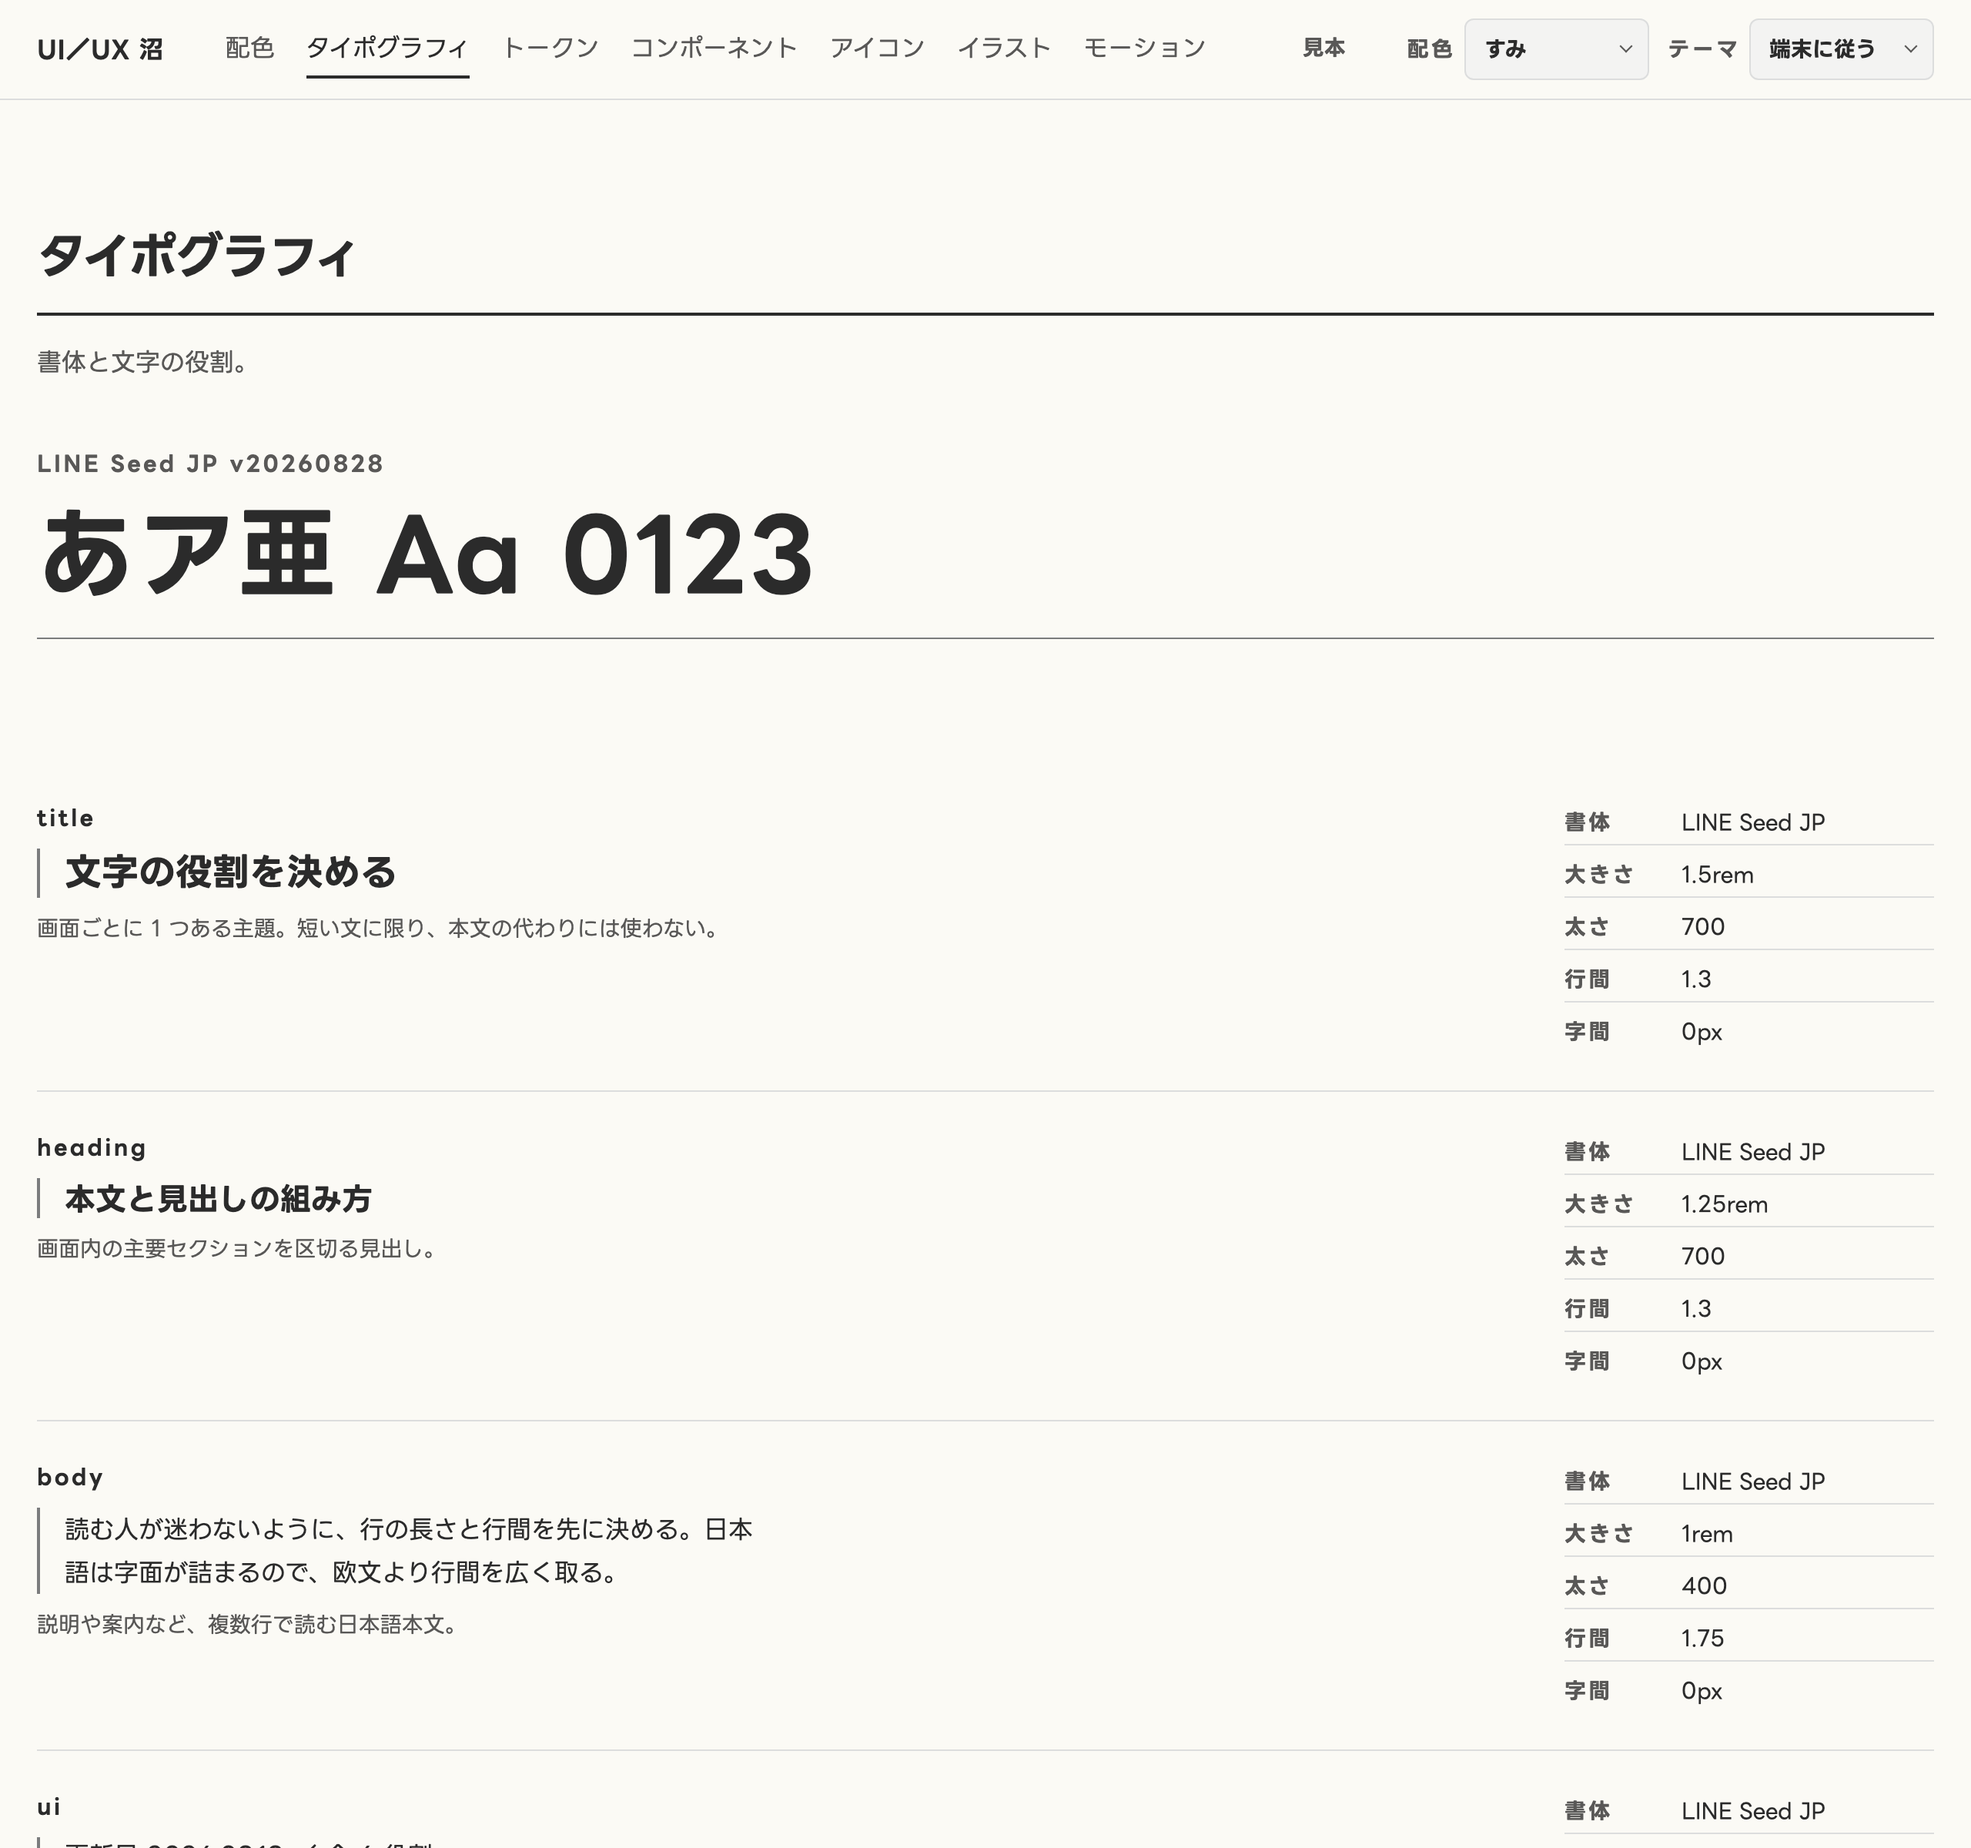
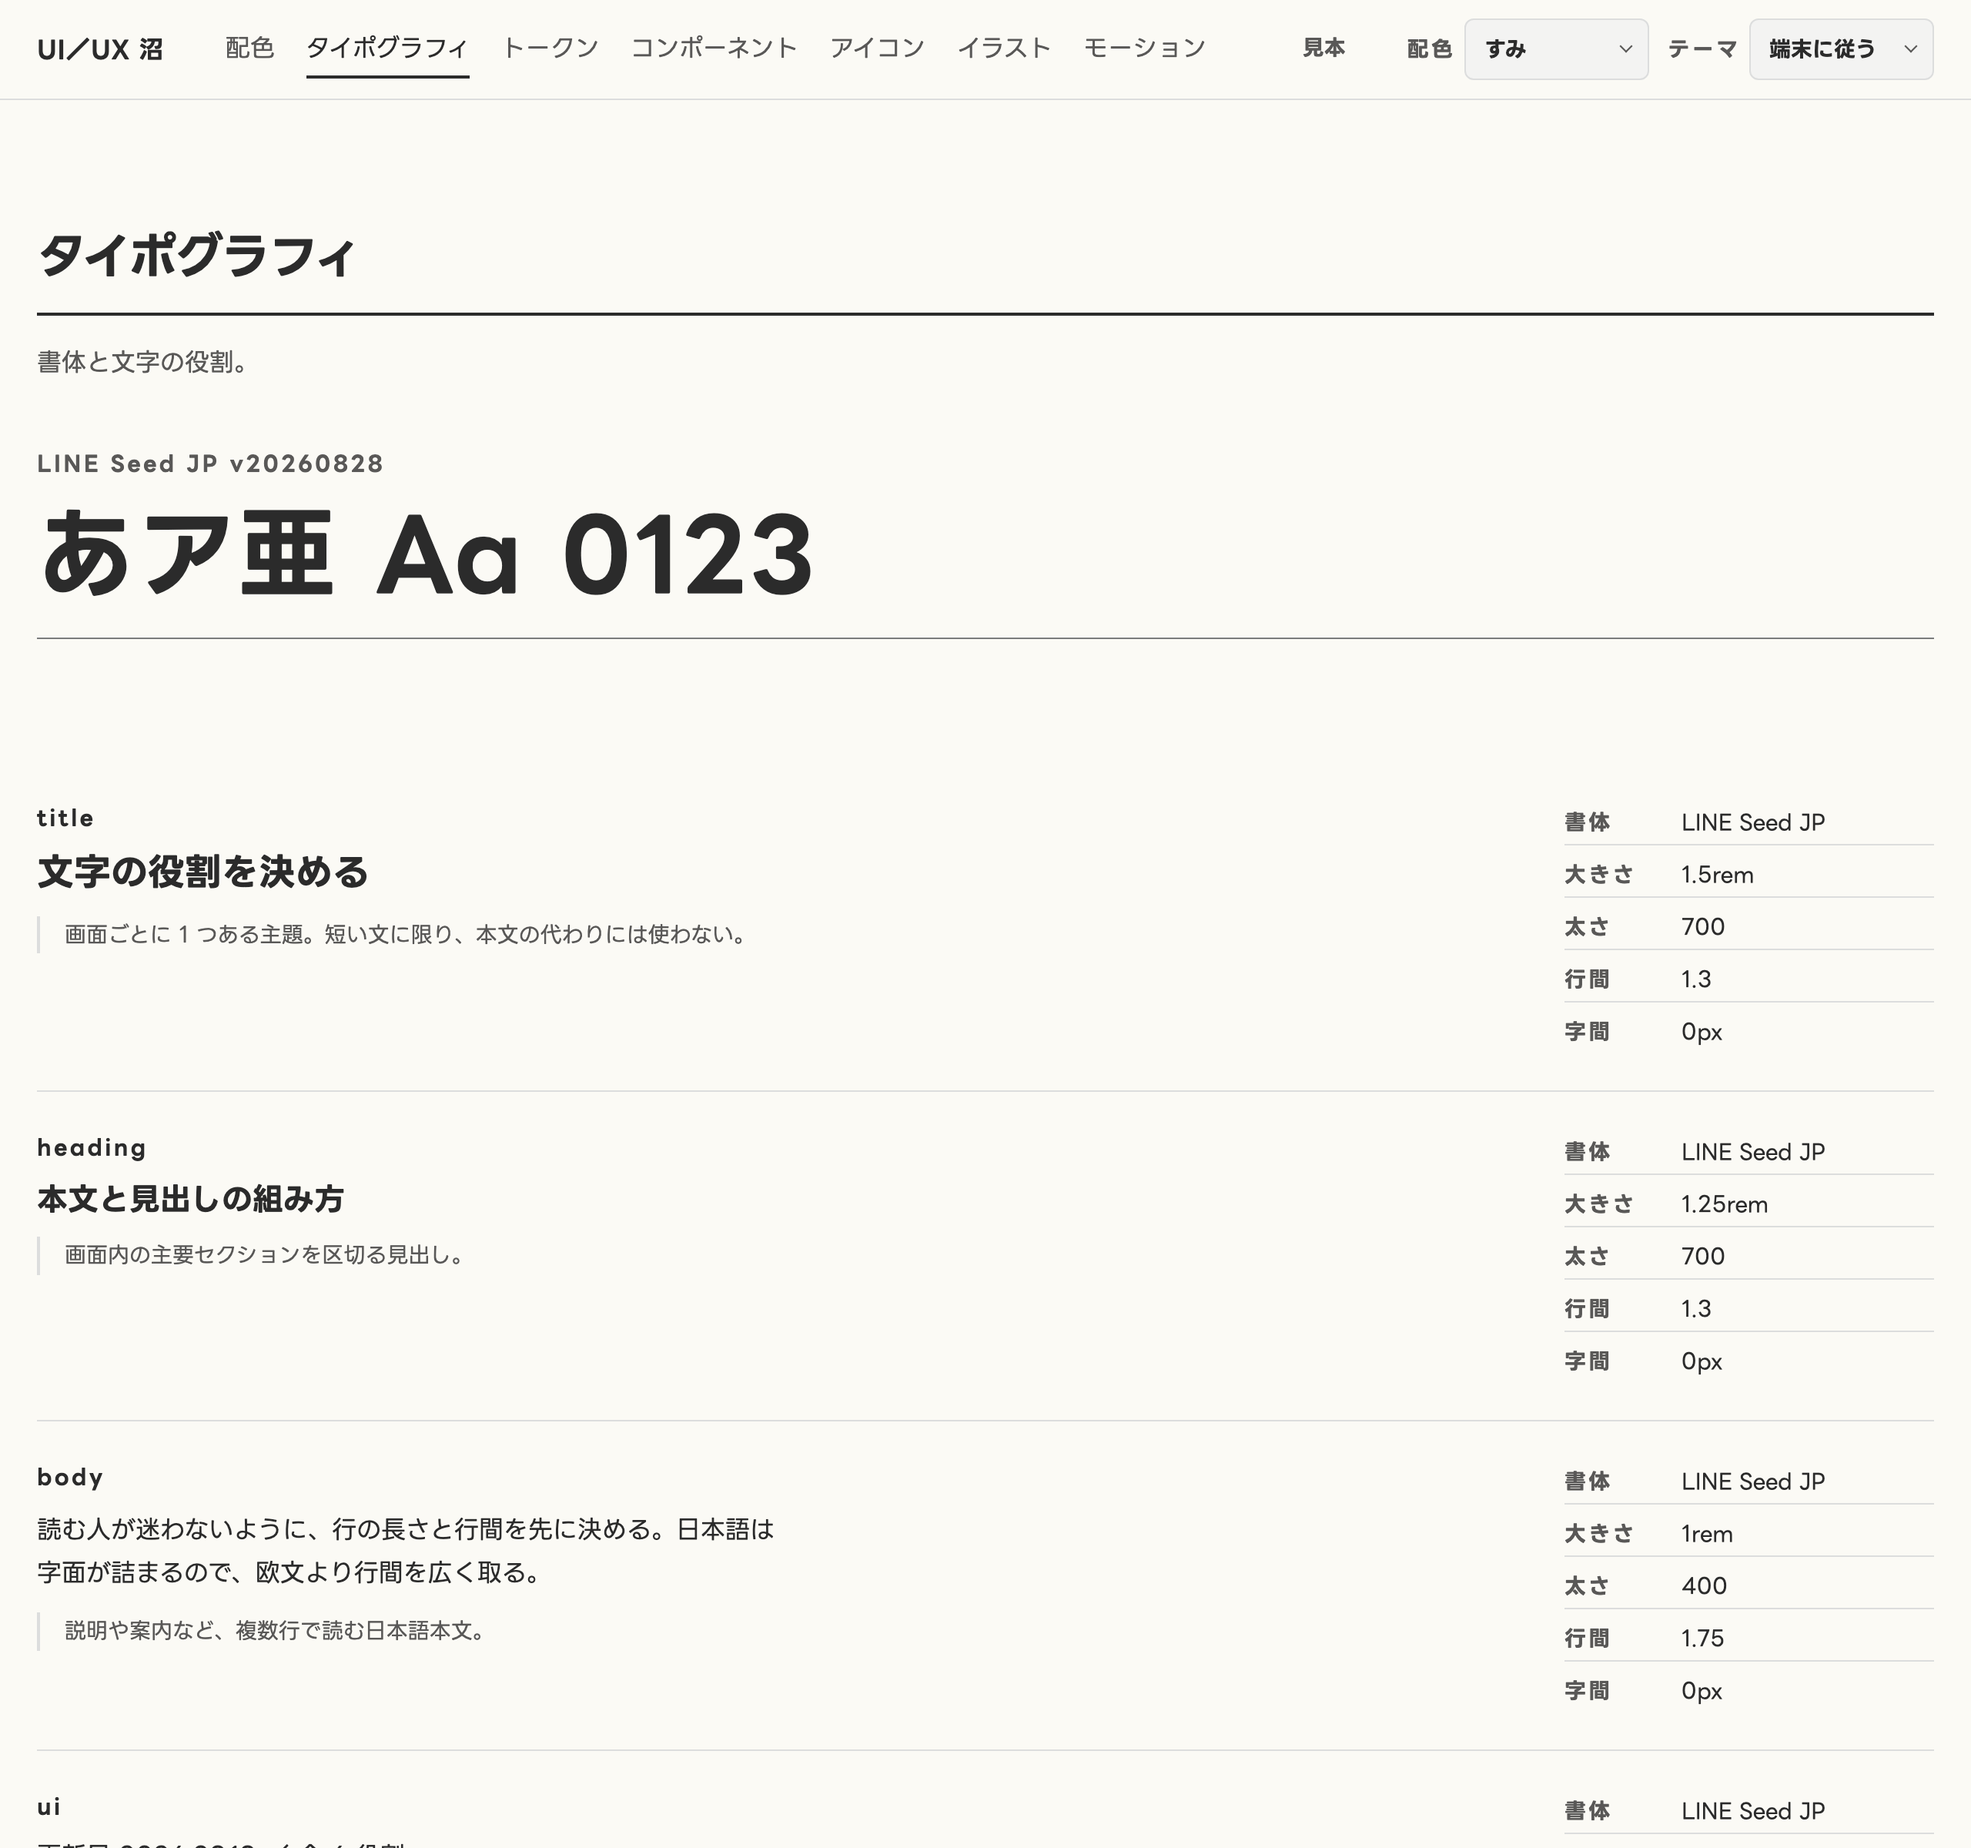
fix: 罫を見本ではなく説明の側へ移す 🐛
印は注釈の側に付ける（利用者の判断、2026-09-20）。
見本の側に罫と余白を足すと、token を当てた面が装飾を持ち、素のまま見られない。
説明を字下げして罫を引き、見本は行頭から素のまま組む。

Changed region(s): [[0.0, 0.8125, 0.4062, 0.9062], [0.0, 0.4375, 0.375, 0.5312], [0.0, 0.625, 0.2188, 0.6875]]

diff --git a/experiments/catalog-editorial/variants/topic-first/variant.css b/experiments/catalog-editorial/variants/topic-first/variant.css
@@ -1524,16 +1524,12 @@
   }
 }
 
-/* 見本には縦の罫を引く。
-   caption は 0.875rem の並文字なので、罫がないと下の説明と見分けが付かなかった。
-   語で「見本」と断らずに済むよう、位置と罫だけで役割を示す。
+/* 見本は素のまま置く。token を当てた面なので、罫や余白を足すと見本自体が装飾を持つ。
    行の長さは本文の測りに揃える。全幅で組むと body の見本が 1 行に収まり、
    行間の値が確かめられない。 */
 .ed-root--topic .role__sample {
   margin: 0;
   max-inline-size: 30em;
-  padding-inline-start: 1rem;
-  border-inline-start: 2px solid var(--ed-line-strong);
 }
 
 /* 正本へ辿る 1 行。トピックの中身のあとに置く。
@@ -1549,9 +1545,14 @@
   border-block-end: 1px solid currentcolor;
 }
 
+/* 説明には縦の罫を引く。
+   caption の見本は 0.875rem の並文字なので、印がないと説明と見分けが付かなかった。
+   印は注釈の側に付ける。見本の側に付けると、見本が素のまま見られなくなる。 */
 .ed-root--topic .role__desc {
-  margin: 0.5rem 0 0;
+  margin: 0.75rem 0 0;
   max-inline-size: 38em;
+  padding-inline-start: 1rem;
+  border-inline-start: 2px solid var(--ed-line);
   font-size: 0.875rem;
   color: var(--ed-muted);
 }

diff --git a/experiments/catalog-editorial/rationale/topic-first.md b/experiments/catalog-editorial/rationale/topic-first.md
@@ -81,7 +81,7 @@
 | 書体の名前                 | 画面の先頭に 1 度だけ出し、役割ごとの仕様にも書体の行を置く | 何で組んだ見本なのかを示す                           | 役割の見本だけでは、どの書体で組んであるのかが画面から読めなかった。役割が 6 つしかないので、役割ごとの組が 4 行では token の表より薄くなる（利用者の判断、2026-09-20）。名前は `tokens/typography/README.md` から読み、画面に書き写さない | 先頭だけに出す。役割の組が 4 行になり、token の表と並べたときに情報が落ちて見える／ライセンスと配布元も画面に出す。役割を読む面ではなくなる                                                         |
 | 役割の仕様の置き場所       | 見本の右に項目名つきの組で置く                              | どの数が何を指すかを読めるようにする                 | 「1.5rem 700 行 1.3 字間 0px」と値だけを並べていたため、行 と 字間 以外は何の数か読めなかった。値は 4 つのままで増やしていない                                                                                                             | 値だけの 1 行のまま。数の意味が読めない／px 換算や Bold の呼び名も足す。情報量が増える                                                                                                              |
 | 仕様の列の位置             | 左の列を見本の測り（34em）で止め、仕様は右端へ寄せる        | 6 役割の仕様を同じ縦線の上に揃える                   | 右端に置くと、役割どうしの値を縦に読み比べられる（利用者の判断、2026-09-20）                                                                                                                                                               | 見本のすぐ隣に置く。見本の長さで仕様の位置が動き、役割どうしを比べられない／右端に寄せずに左を 1fr にする。仕様の位置が画面幅で動く                                                                 |
-| 見本と説明の見分け         | 見本の側に縦の罫を引く                                      | どちらが見本でどちらが説明かを示す                   | caption は 0.875rem の並文字なので、罫がないと下の説明と見分けが付かなかった（利用者の判断、2026-09-20）                                                                                                                                   | 「見本」の標識を置く。6 役割に同じ語が 6 回並ぶ／説明を薄くする。すでに muted なので、これ以上落とすと読めない                                                                                      |
+| 見本と説明の見分け         | 説明の側に縦の罫を引き、見本は素のまま置く                  | どちらが見本でどちらが注釈かを示す                   | caption の見本は 0.875rem の並文字なので、印がないと説明と見分けが付かなかった。印は注釈の側に付ける。見本の側に付けると、token を当てた面が罫と余白を持ち、素のまま見られなくなる（利用者の判断、2026-09-20）                             | 見本の側に罫を引く。見本自体が装飾を持つ／「見本」の標識を置く。6 役割に同じ語が 6 回並ぶ／説明を薄くする。すでに muted なので、これ以上落とすと読めない                                            |
 | select の造形              | 既定の矢印を消し、線で引いた山形を重ねる                    | 画面の他の部品と造形を揃える                         | 既定の矢印は OS の造形なので、ヘアラインと角丸 0.375rem の部品の中で浮いていた（利用者の判断、2026-09-20）。線は色を継ぐので配色を切り替えても追従する                                                                                     | 既定のまま。OS ごとに見え方が変わる／画像の矢印を置く。配色を切り替えても色が変わらない                                                                                                             |
 | 明暗のラベル               | 「テーマ」                                                  | 何を選ぶのかを語で示す                               | 「明暗」では何を指すか伝わらなかった（利用者の判断、2026-09-20）                                                                                                                                                                           | 「明暗」のまま／「外観」。日常の語ではない                                                                                                                                                          |
 
